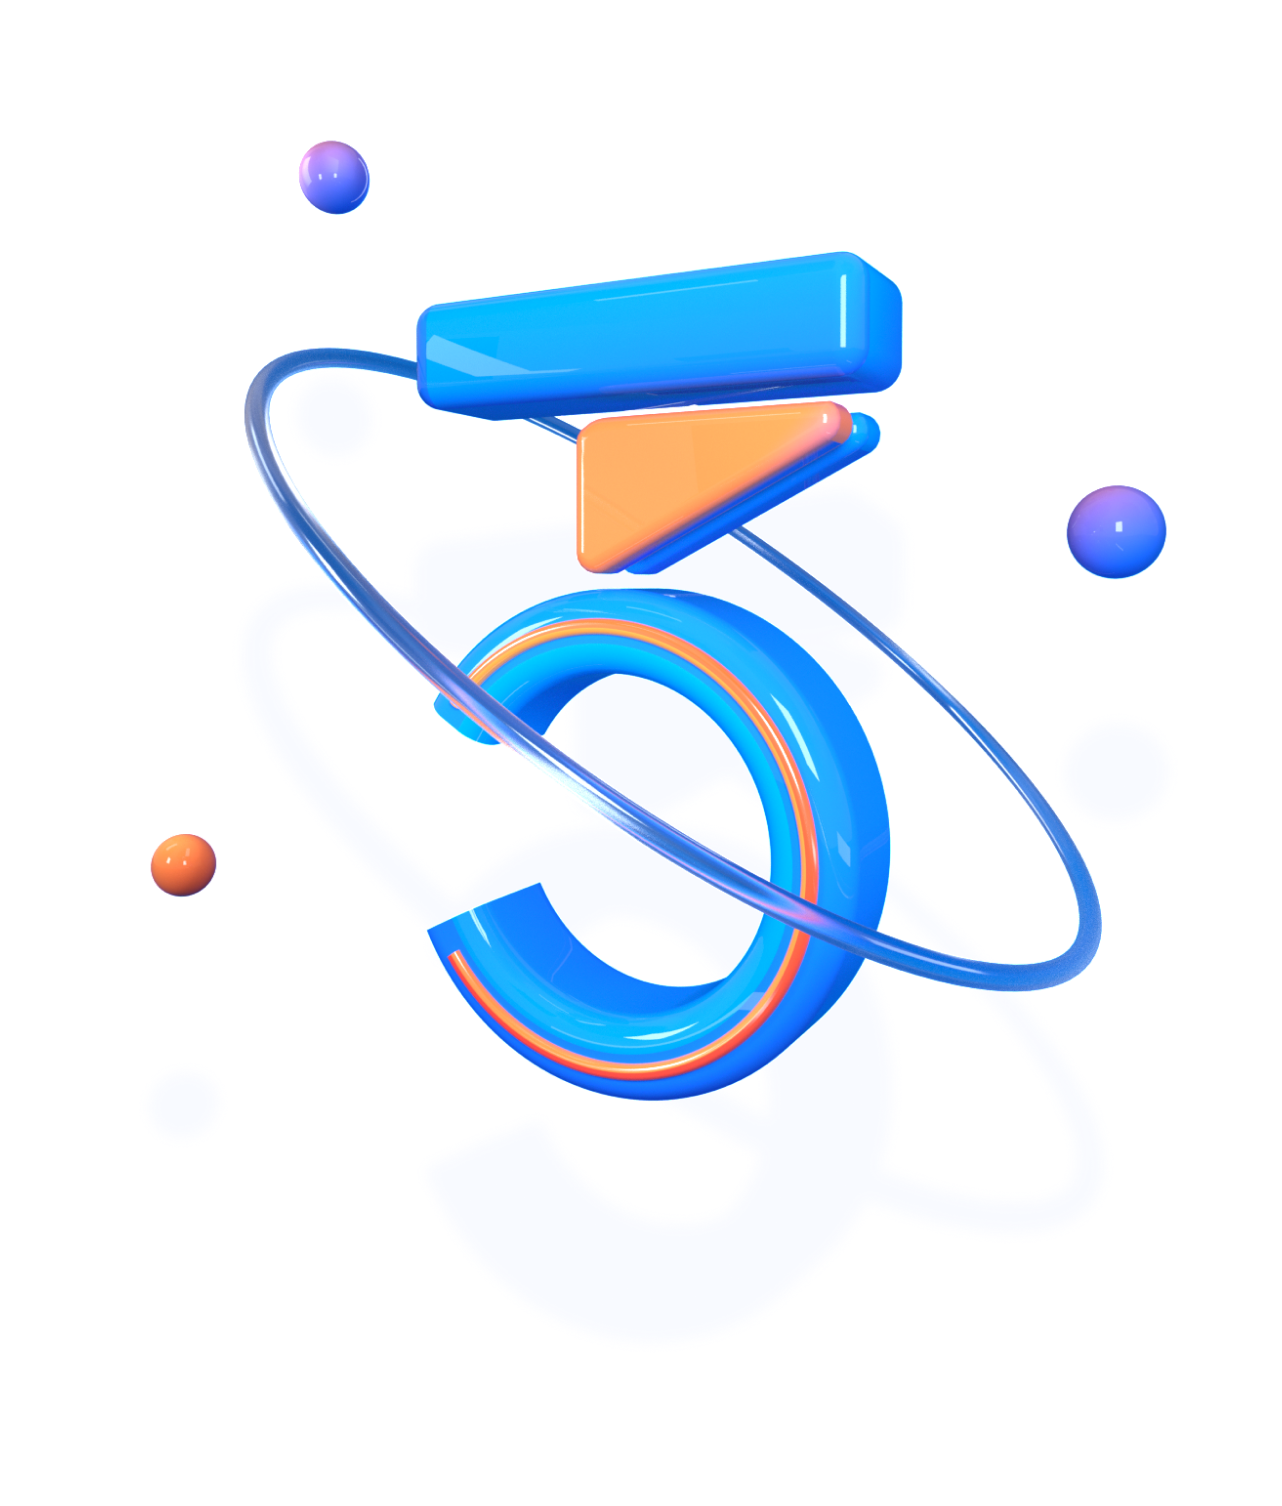
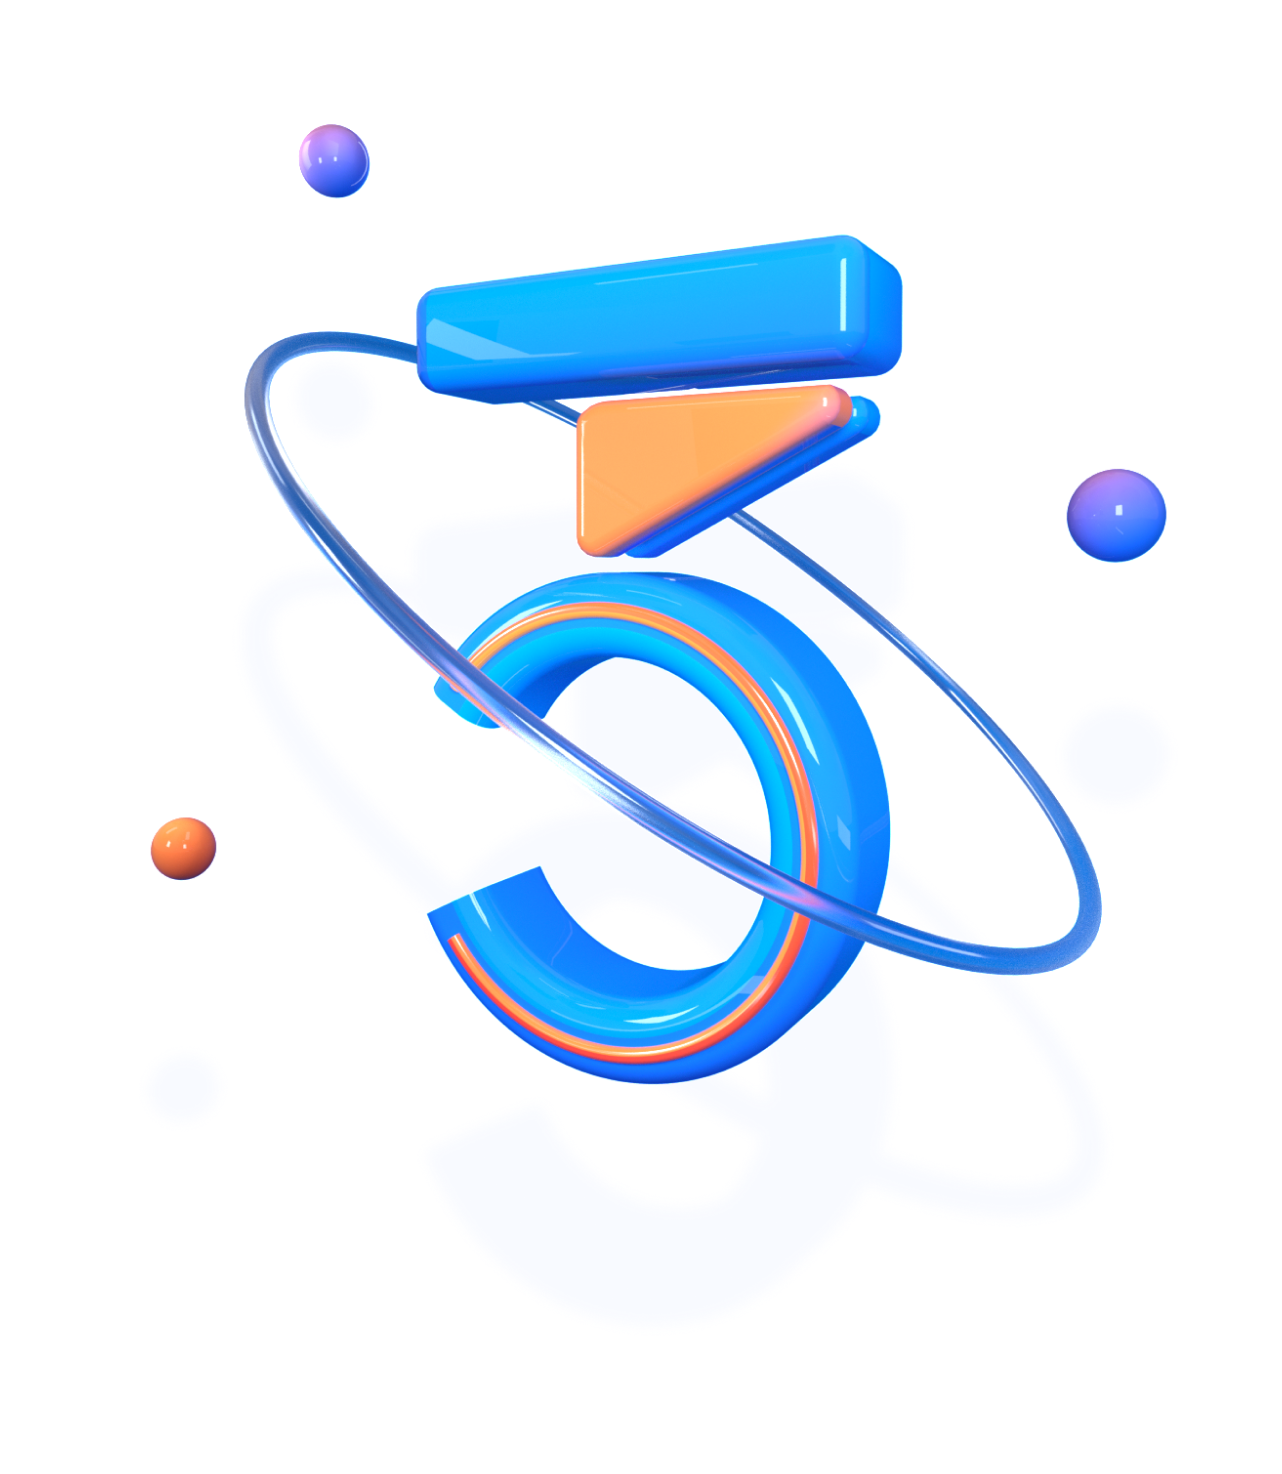
Home page layout modify completed

diff --git a/src/components/Home.js b/src/components/Home.js
@@ -5,7 +5,11 @@ import { gsap } from "gsap";
 import { ScrollTrigger } from "gsap/ScrollTrigger";
 import { Helmet } from "react-helmet";
 import classnames from "classnames";
-import { homeSectionTitleEn } from "../components/style.module.css";
+import {
+  homeSectionTitleEn,
+  gridArea1111,
+  monkitBgSize,
+} from "../components/style.module.css";
 import { Transition, Dialog } from "@headlessui/react";
 import PureMotion from "../assets/pure-motion.mp4";
 import DynamicMotion from "../assets/dynamic-motion-2.mp4";
@@ -17,6 +21,7 @@ import GridTemplateDesktop from "../images/grid-template-desktop.inline.svg";
 import GridTemplatePad from "../images/grid-template-pad.inline.svg";
 import GridTemplatePhone from "../images/grid-template-phone.inline.svg";
 import IconTimes from "../images/icon-times.inline.svg";
+import CloudDesktop from "../images/cloud-desktop.inline.svg";
 import PrimaryButton from "./primaryButton";
 
 const ideology = [
@@ -474,13 +479,7 @@ const IndexPage = () => {
               styleName="lg:mb-48"
             />
             <div id="cloud-desktop-image">
-              <StaticImage
-                src="../images/cloud-desktop.svg"
-                alt="cloud desktop"
-                width="1480"
-                placeholder="blurred"
-                className="mt-20 lg:mt-4"
-              ></StaticImage>
+              <CloudDesktop className="mt-20 lg:mt-4 w-full" />
             </div>
           </div>
 
@@ -523,7 +522,7 @@ const IndexPage = () => {
                     width="1150"
                     placeholder="blurred"
                   ></StaticImage>
-                  <div className="text-base text-left mt-12 max-w-5xl mx-4">
+                  <div className="text-base text-left mt-12 max-w-5xl xs:mx-4">
                     <p className="leading-relaxed">
                       栅格系统是“云工作美学”特别提出的界面设计与常规内容布局方法，这一方面会打通UI视觉设计和前端开发/界面还原效果的一致性，另一方面也规范和限制了各种新界面设计时的“随意性”，将灵感和功能收纳进无形的容器中，为一致化的体验印象增加了严谨且持续的关注。
                     </p>
@@ -583,7 +582,7 @@ const IndexPage = () => {
                       className="max-w-[540px] lg:max-h-[360px] relative ml-[10%] lg:ml-[6%] co-grid:ml-24 align-right"
                     ></StaticImage>
                   </div>
-                  <div className="text-base text-left mt-12 max-w-5xl mx-4">
+                  <div className="text-base text-left mt-12 max-w-5xl xs:mx-4">
                     <p className="leading-relaxed">
                       点阵元素是“云工作美学”中最能体现“严谨与规则化”内涵的核心元素，无论在界面设计还是品牌宣传中，恰当的使用点阵排列，会增强内容或者控件布局的合理性，也能在用户的心智中留下更为精确精密的体验印象。
                     </p>
@@ -649,7 +648,7 @@ const IndexPage = () => {
                   ></StaticImage>
                 </div>
 
-                <div className="col-span-full md:col-start-2 md:col-end-12 lg:col-end-10 co-grid:col-start-1 mt-2 text-base text-left mx-4">
+                <div className="col-span-full md:col-start-2 md:col-end-12 lg:col-end-10 co-grid:col-start-1 mt-2 text-base text-left xs:mx-4">
                   <p className="leading-relaxed">
                     我们选择用以下几种颜色作为 UI 及品牌色。
                     <br />
@@ -680,13 +679,13 @@ const IndexPage = () => {
                     </PrimaryButton>
                   </Link>
                 </div>
-                <div className="text-center col-span-full lg:col-span-3 lg:max-h-0">
+                <div className="relative text-right lg:text-center col-span-full md:col-start-2 md:col-end-12 lg:col-span-3 lg:max-h-0 mb-[-14%] xs:mb-[-26%] lg:mb-0 lg:top-[-364px]">
                   <StaticImage
                     src="../images/symbol-number3.png"
                     alt="a symbol about number 3"
                     width="630"
                     placeholder="blurred"
-                    className="relative lg:w-[630px] lg:top-[-460px] lg:-left-28 max-w-md lg:max-w-none mt-10 lg:mt-0"
+                    className="relative lg:w-[630px] top-0 xs:-top-24 lg:-left-28 max-w-md lg:max-w-none lg:mt-0 lg:block right-[-16%]  w-1/2"
                   ></StaticImage>
                 </div>
               </div>
@@ -710,7 +709,7 @@ const IndexPage = () => {
                     className="relative my-20 lg:my-0 lg:w-[630px] -right-16 lg:top-[-22rem] lg:-left-32 max-w-sm lg:max-w-none"
                   ></StaticImage>
                 </div>
-                <div className="col-span-full md:col-start-2 lg:col-start-4 md:col-end-12 co-grid:col-start-4 co-grid:col-end-13 mt-2 text-base lg:text-right mx-4">
+                <div className="col-span-full md:col-start-2 lg:col-start-4 md:col-end-12 co-grid:col-start-4 co-grid:col-end-13 mt-2 text-base lg:text-right xs:mx-4">
                   <p className="leading-relaxed">
                     CODING
                     的服务面向众多行业，我们搭建的研发平台，是具备高可用，高扩展性的“工作容器“，所以纯净及透明的材质，是表达这种容器感的最佳选择，而材质具备流动感和色彩感，则进一步让用户感知到实际工作场景和内容的丰富多样和情感温度。
@@ -774,11 +773,11 @@ const IndexPage = () => {
               <div className="grid grid-cols-12 gap-x-4 w-full max-w-co-grid">
                 <div className="col-span-full md:col-start-2 md:col-end-12 co-grid:col-span-full relative">
                   <StaticImage
-                    src="../images/font-img.png"
+                    src="../images/font-img.jpg"
                     alt="font image"
                     placeholder="blurred"
                   ></StaticImage>
-                  <div className="text-base text-left mt-12 max-w-5xl mx-4">
+                  <div className="text-base text-left mt-12 max-w-5xl xs:mx-4">
                     <p className="leading-relaxed">
                       为了更加契合品牌字体，传达IT工程师文化，在产品页面中，标题使用
                       Inter 字体；Roboto_Mono
@@ -853,7 +852,7 @@ const IndexPage = () => {
                       ></StaticImage>
                     </div>
                   </div>
-                  <div className="text-base text-left mt-12 max-w-5xl mx-4">
+                  <div className="text-base text-left mt-12 max-w-5xl xs:mx-4">
                     <p className="leading-relaxed">
                       CODING
                       洋葱猴形象包含三种基本形象，基本版，个性版，商务版。这些形象应当出现在与用户或客户沟通时的场合或相关设计方案中，包括并不限于“动态广告，运营活动，品牌周边”等场合，请勿滥用形象，请勿低龄化使用这些形象，如有不明白，请咨询Cocoo
@@ -883,62 +882,69 @@ const IndexPage = () => {
           </div>
 
           {/* 开源 Section */}
-          <div className="overflow-hidden w-full">
-            <div className="flex bg-opensource-bg w-200%">
-              <div className="z-10 pt-8 pb-20 w-full">
-                <SectionTitle
-                  section={sectionTitleContent[9]}
-                  styleName="lg:mb-128"
-                />
-                <div className="flex justify-center mx-4 sm:mx-6 lg:mx-8 lg:mt-[-28rem] mt-20 sm:mt-24 mb:mt-0">
-                  <div className="grid grid-cols-12 gap-x-4 w-full max-w-co-grid">
-                    <div className="col-span-full md:col-start-2 md:col-end-9 co-grid:col-start-1 relative">
-                      <StaticImage
-                        src="../images/monkit-logo.png"
-                        alt="monkit logo"
-                        width="520"
-                        placeholder="blurred"
-                        className="max-w-60%  mx-4"
-                      ></StaticImage>
-                      <div className="text-base text-left mt-12 max-w-5xl mx-4">
-                        <p className="leading-relaxed">
-                          为了给用户带来更好的产品体验，我们经过大量项目实践和总结，打磨出一个服务于企业级产品的设计体系——Monkit。
-                          <br />
-                          <br />
-                          基于云端工作美学 Pure 纯净、Dynamic 动态、Thinking
-                          思考
-                          三大设计价值观，通过提供完善的设计指引、最佳实践、设计资源来帮助产品团队降低冗余生产成本，让设计者专注于更好的用户体验。
-                          未来 Monkit
-                          将对外开放使用，致力于释放每个团队的潜力，共同打造
-                          CODING 产品生态圈。
-                        </p>
-                        <p className="mt-8 text-brand-grey7 text-opacity-80">
-                          In order to provide users with a better product
-                          experience, we have completed a large number of
-                          project practices and summaries, and polished a design
-                          system that serves enterprise-level products-Monkit.
-                          <br />
-                          Based on the three design values of cloud work
-                          aesthetics: Pure, Ddynamic, and Thinking, it helps
-                          product teams reduce redundant production costs by
-                          providing complete design guidelines, best practices,
-                          and design resources, allowing designers to focus on a
-                          better user experience . In the future, Monkit will be
-                          open to the outside world, committed to releasing the
-                          potential of each team and jointly creating a coding
-                          product ecosystem.
-                        </p>
-                        <Link to="">
-                          <PrimaryButton styleName="mt-12">
-                            查看 Monkit
-                          </PrimaryButton>
-                        </Link>
-                      </div>
+          <div className="grid bg-opensource-bg">
+            <div className={`${gridArea1111} pt-8 pb-20 w-full z-10`}>
+              <SectionTitle
+                section={sectionTitleContent[9]}
+                styleName="lg:mb-128"
+              />
+              <div className="flex justify-center mx-4 sm:mx-6 lg:mx-8 lg:mt-[-28rem] mt-[480px] md:mt-24">
+                <div className="grid grid-cols-12 gap-x-4 w-full max-w-co-grid">
+                  <div className="col-span-full md:col-start-2 md:col-end-9 co-grid:col-start-1 relative">
+                    <StaticImage
+                      src="../images/monkit-logo.png"
+                      alt="monkit logo"
+                      width="520"
+                      placeholder="blurred"
+                      className="max-w-60%  mx-4"
+                    ></StaticImage>
+                    <div className="text-base text-left mt-6 xs:mt-12 max-w-5xl xs:mx-4">
+                      <p className="leading-relaxed">
+                        为了给用户带来更好的产品体验，我们经过大量项目实践和总结，打磨出一个服务于企业级产品的设计体系——Monkit。
+                        <br />
+                        <br />
+                        基于云端工作美学 Pure 纯净、Dynamic 动态、Thinking 思考
+                        三大设计价值观，通过提供完善的设计指引、最佳实践、设计资源来帮助产品团队降低冗余生产成本，让设计者专注于更好的用户体验。
+                        未来 Monkit
+                        将对外开放使用，致力于释放每个团队的潜力，共同打造
+                        CODING 产品生态圈。
+                      </p>
+                      <p className="mt-8 text-brand-grey7 text-opacity-80">
+                        In order to provide users with a better product
+                        experience, we have completed a large number of project
+                        practices and summaries, and polished a design system
+                        that serves enterprise-level products-Monkit.
+                        <br />
+                        Based on the three design values of cloud work
+                        aesthetics: Pure, Ddynamic, and Thinking, it helps
+                        product teams reduce redundant production costs by
+                        providing complete design guidelines, best practices,
+                        and design resources, allowing designers to focus on a
+                        better user experience . In the future, Monkit will be
+                        open to the outside world, committed to releasing the
+                        potential of each team and jointly creating a coding
+                        product ecosystem.
+                      </p>
+                      <Link to="">
+                        <PrimaryButton styleName="mt-12">
+                          查看 Monkit
+                        </PrimaryButton>
+                      </Link>
                     </div>
                   </div>
                 </div>
               </div>
-              <div className="bg-opensource-img w-full bg-contain bg-no-repeat relative right-16%"></div>
+            </div>
+            <div
+              className={`${gridArea1111} w-full overflow-hidden pt-64 md:pt-0`}
+            >
+              <div className="flex justify-center md:px-6 lg:px-8 h-full">
+                <div className="w-full max-w-co-grid h-full">
+                  <div
+                    className={`relative bg-opensource-img w-full bg-top md:bg-left ${monkitBgSize} md:bg-contain bg-no-repeat h-[365px] md:h-full md:left-[calc((100%-16px*11)/12*8+16px*8+13px)]`}
+                  ></div>
+                </div>
+              </div>
             </div>
           </div>
 

diff --git a/gatsby-config.js b/gatsby-config.js
@@ -15,7 +15,24 @@ module.exports = {
     },
     "gatsby-plugin-mdx",
     "gatsby-plugin-react-helmet",
-    "gatsby-plugin-sharp",
+    {
+      resolve: `gatsby-plugin-sharp`,
+      options: {
+        defaults: {
+          formats: [`auto`],
+          placeholder: `dominantColor`,
+          quality: 90,
+          breakpoints: [750, 1080, 1366, 1920],
+          backgroundColor: `transparent`,
+          tracedSVGOptions: {},
+          blurredOptions: {},
+          jpgOptions: {},
+          pngOptions: {},
+          webpOptions: {},
+          avifOptions: {},
+        },
+      },
+    },
     "gatsby-plugin-scroll-reveal",
     {
       resolve: "gatsby-plugin-manifest",

diff --git a/src/components/style.module.css b/src/components/style.module.css
@@ -50,3 +50,19 @@
   mask-size: 34.5%;
   mask-position: 45.2% 49%;
 }
+
+.grid-area-1111 {
+  grid-area: 1 / 1 / 1 / 1;
+}
+
+@media (max-width: 540px) {
+  .monkit-bg-size {
+    background-size: 540px;
+  }
+}
+
+@media (min-width: 540px) and (max-width: 768px) {
+  .monkit-bg-size {
+    background-size: cover;
+  }
+}
